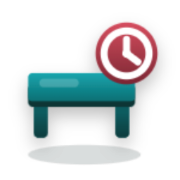
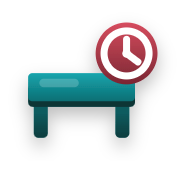
feat: update base template and static site assets for Urban Table branding

diff --git a/templates/booking/base.html b/templates/booking/base.html
@@ -3,11 +3,13 @@
 {% get_available_languages as AVAILABLE_LANGUAGES %}
 <!doctype html>
 <html lang="{{ CURRENT_LANGUAGE }}">
+
 <head>
     <meta charset="utf-8">
     <meta name="viewport" content="width=device-width, initial-scale=1">
     <title>{% block title %}{% trans "Restaurant Booking" %}{% endblock %}</title>
     <link rel="icon" type="image/svg+xml" href="{% static 'favicon.svg' %}">
+    <link rel="icon" type="image/png" sizes="96x96" href="{% static 'favicon-96x96.png' %}" />
     <link rel="icon" type="image/png" sizes="32x32" href="{% static 'favicon-32x32.png' %}">
     <link rel="icon" type="image/png" sizes="16x16" href="{% static 'favicon-16x16.png' %}">
     <link rel="shortcut icon" href="{% static 'favicon.ico' %}">
@@ -20,6 +22,7 @@
     <link rel="stylesheet" href="{% static 'booking/styles.css' %}">
     {% block extra_head %}{% endblock %}
 </head>
+
 <body class="{% block body_class %}{% endblock %}">
     <header class="topbar">
         <a class="brand" href="{% url 'home' %}">Urban Table</a>
@@ -27,37 +30,35 @@
             <a href="{% url 'menu' %}">{% trans "Menu" %}</a>
             <a href="{% url 'booking' %}">{% trans "Booking" %}</a>
             {% if user.is_authenticated %}
-                <form method="post" action="{% url 'logout' %}" class="logout-form">
-                    {% csrf_token %}
-                    <button type="submit">{% trans "Logout" %}</button>
-                </form>
+            <form method="post" action="{% url 'logout' %}" class="logout-form">
+                {% csrf_token %}
+                <button type="submit">{% trans "Logout" %}</button>
+            </form>
             {% else %}
-                <a href="{% url 'login' %}">{% trans "Login" %}</a>
-                <a class="nav-pill" href="{% url 'register' %}">{% trans "Register" %}</a>
+            <a href="{% url 'login' %}">{% trans "Login" %}</a>
+            <a class="nav-pill" href="{% url 'register' %}">{% trans "Register" %}</a>
             {% endif %}
-            <form action="{% url 'set_language' %}" method="post" class="language-switcher" aria-label="{% trans 'Language' %}">
+            <form action="{% url 'set_language' %}" method="post" class="language-switcher"
+                aria-label="{% trans 'Language' %}">
                 {% csrf_token %}
                 <input type="hidden" name="next" value="{{ request.get_full_path }}">
                 {% for language_code, language_name in AVAILABLE_LANGUAGES %}
-                    <button
-                        type="submit"
-                        name="language"
-                        value="{{ language_code }}"
-                        class="language-option{% if language_code == CURRENT_LANGUAGE %} active{% endif %}"
-                        aria-pressed="{% if language_code == CURRENT_LANGUAGE %}true{% else %}false{% endif %}">
-                        {{ language_name }}
-                    </button>
+                <button type="submit" name="language" value="{{ language_code }}"
+                    class="language-option{% if language_code == CURRENT_LANGUAGE %} active{% endif %}"
+                    aria-pressed="{% if language_code == CURRENT_LANGUAGE %}true{% else %}false{% endif %}">
+                    {{ language_name }}
+                </button>
                 {% endfor %}
             </form>
         </nav>
     </header>
 
     {% if messages %}
-        <div class="messages" role="status" aria-live="polite">
-            {% for message in messages %}
-                <p class="message {{ message.tags }}">{{ message }}</p>
-            {% endfor %}
-        </div>
+    <div class="messages" role="status" aria-live="polite">
+        {% for message in messages %}
+        <p class="message {{ message.tags }}">{{ message }}</p>
+        {% endfor %}
+    </div>
     {% endif %}
 
     <main>
@@ -65,4 +66,5 @@
     </main>
     {% block extra_scripts %}{% endblock %}
 </body>
+
 </html>